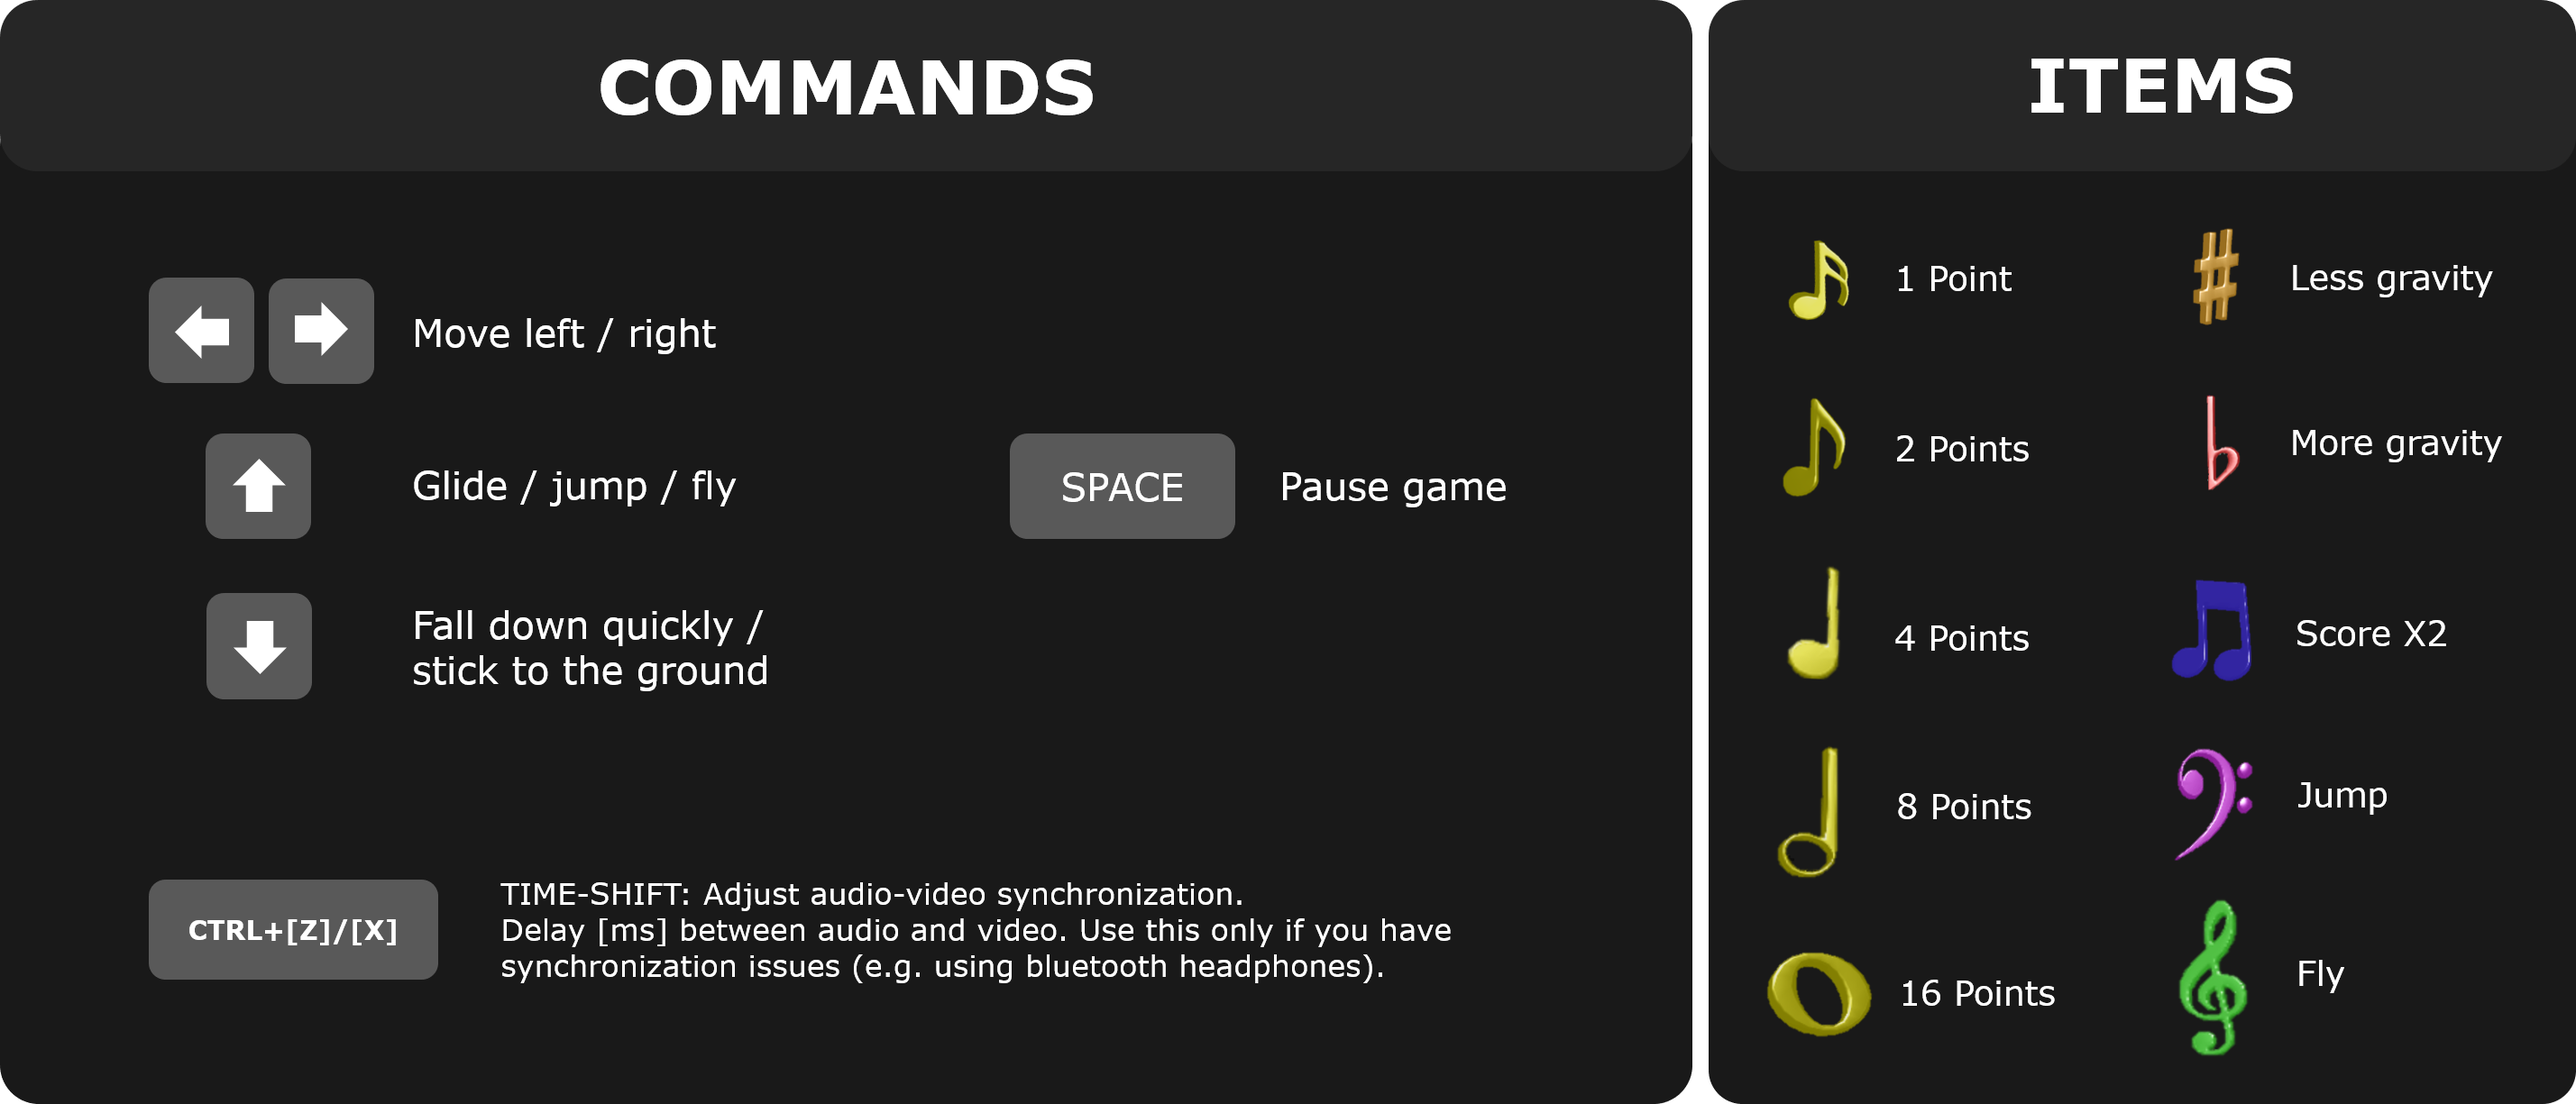
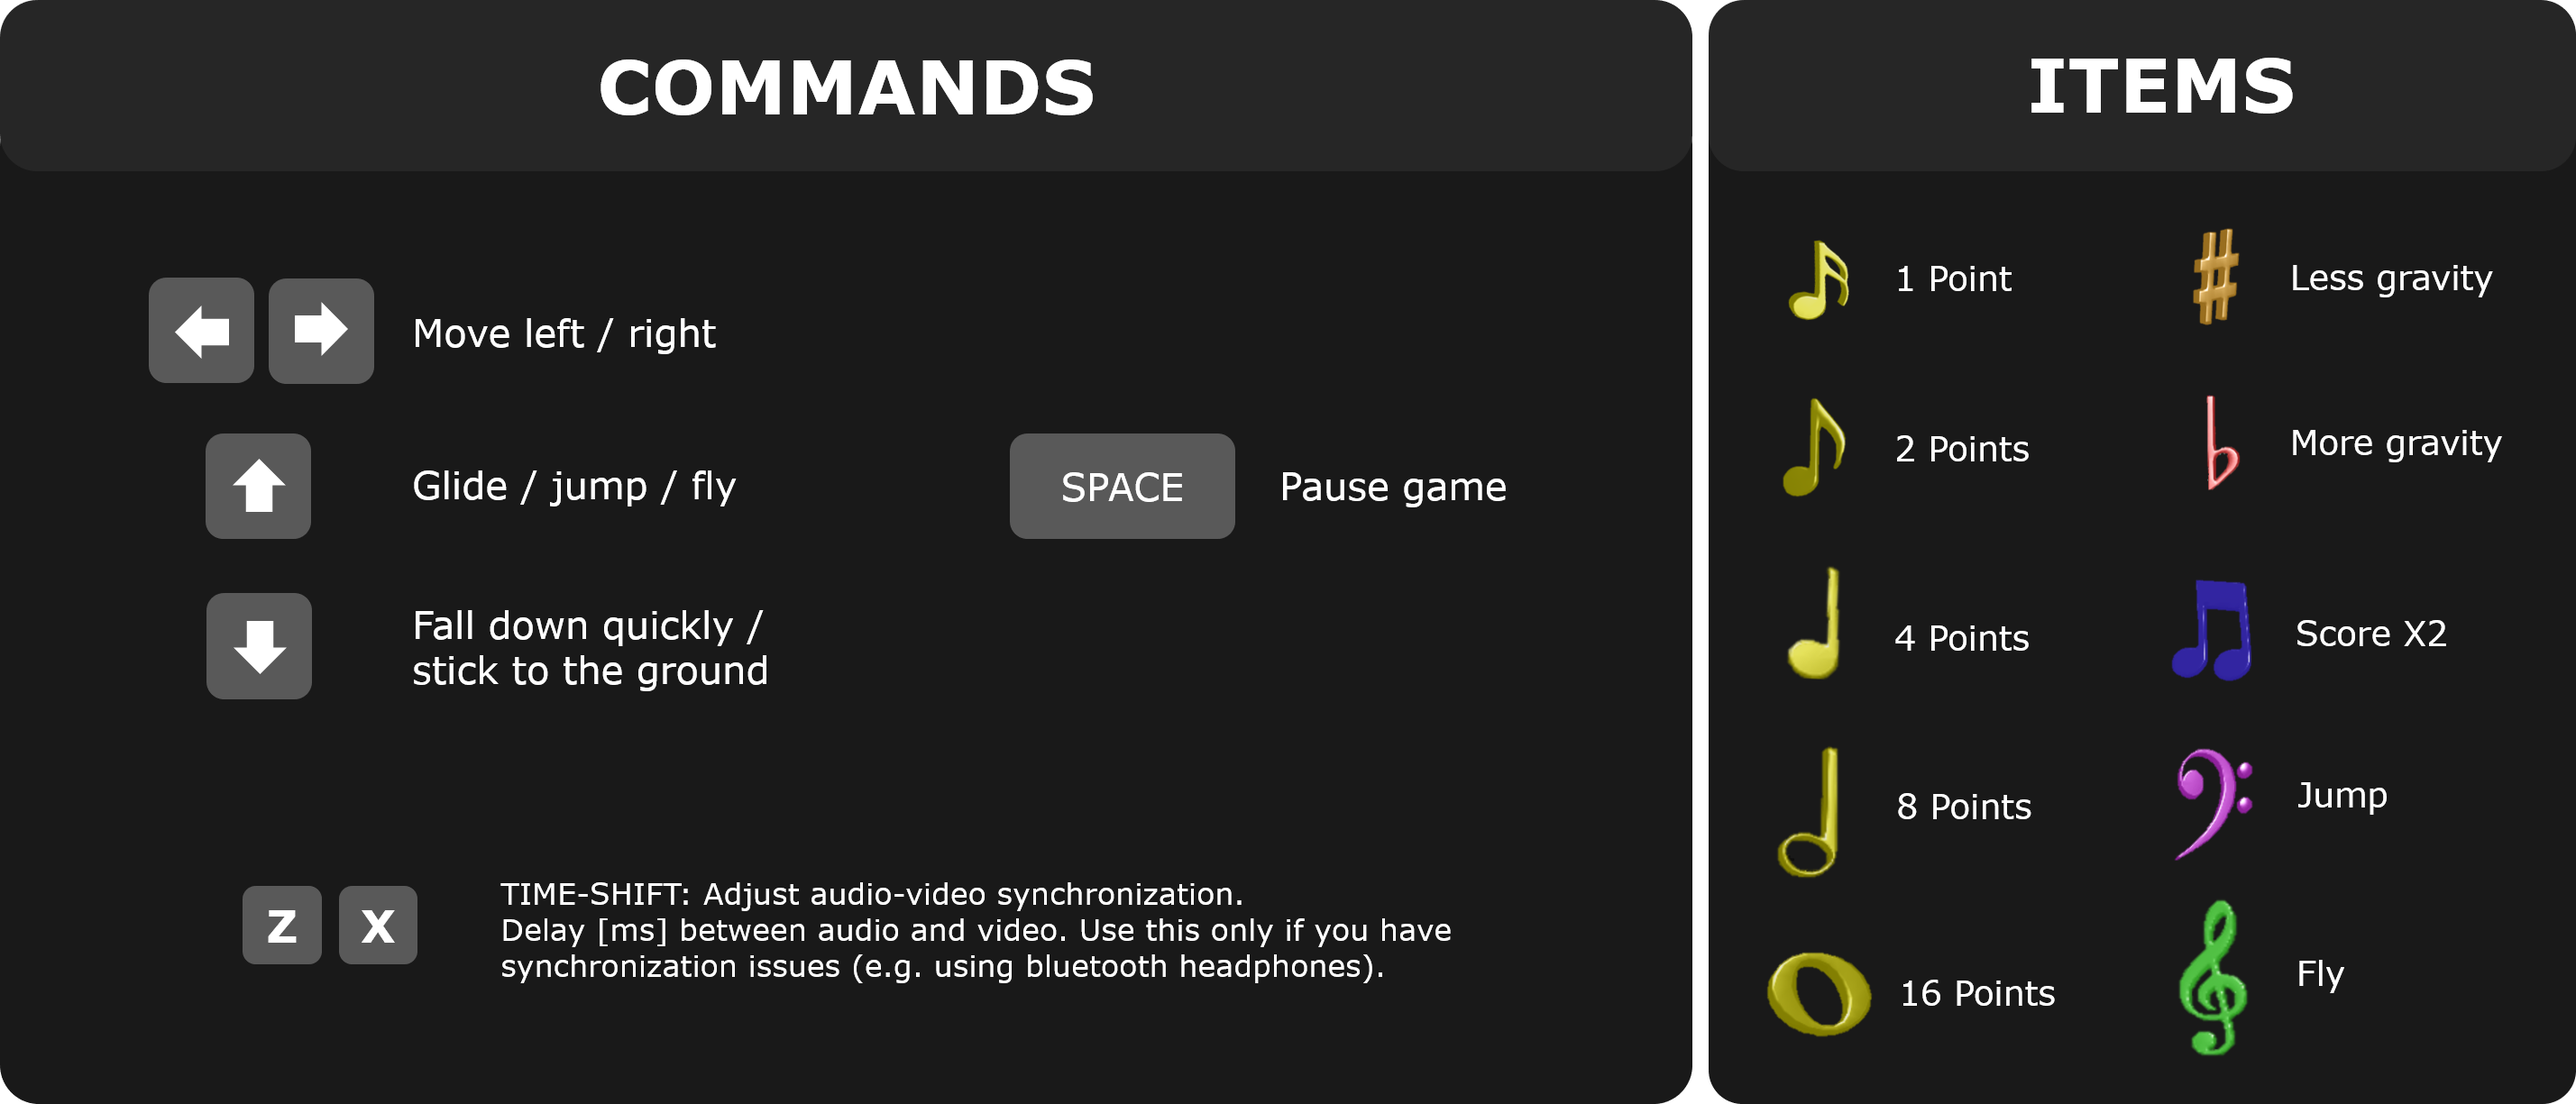
FINISHED

Changed region(s): [[0.0312, 0.7755, 0.1869, 0.8996]]

diff --git a/program/JS/App.js b/program/JS/App.js
@@ -298,18 +298,14 @@ class App {
                 case "x":
                     e.preventDefault();
                     if(this.synchronized){
-                        if(e.ctrlKey){
-                            this.time_correction += 100;
-                        }
+                        this.time_correction += 10;
                     }
                     break;
                 case "Z":
                 case "z":
                     e.preventDefault();
                     if(this.synchronized){
-                        if(e.ctrlKey){
-                            this.time_correction -= 100;
-                        }
+                        this.time_correction -= 10;
                     }
                     break;
                 case "+":
@@ -473,9 +469,9 @@ class App {
             this.ctx_2d.fillStyle = 'rgba(150, 150, 150, 0.5)';
             this.ctx_2d.textAlign = "right";
             this.ctx_2d.font = '100 15px Arial';
-            this.ctx_2d.fillText("Time-Shift Correction: " + this.time_correction + "ms", this.ctx_2d.canvas.width - 60 - 5, 240);
+            this.ctx_2d.fillText("Time-Shift: " + this.time_correction + "ms", this.ctx_2d.canvas.width - 60 - 5, 240);
             this.ctx_2d.font = '500 12px Arial';
-            this.ctx_2d.fillText("CTRL + [Z]/[X]", this.ctx_2d.canvas.width - 60 - 5, 260);
+            this.ctx_2d.fillText("Press [Z]/[X]", this.ctx_2d.canvas.width - 60 - 5, 260);
         }
         this.last_update_time = this.current_time;
         window.requestAnimationFrame(this.draw_scene);
